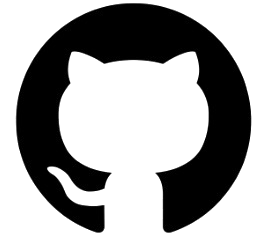
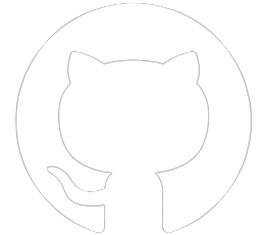
Add files via upload

diff --git a/style.css b/style.css
@@ -483,7 +483,6 @@ width: 100%;
 
     .card_experiencia span{
         color:rgb(130, 39, 190);
-
     }
 
     .projetos{
@@ -533,7 +532,6 @@ width: 100%;
  span a{
     position: absolute;
     bottom: 0;
-    
     margin-bottom: 2%;
     width: 20%;
     height: 12%;
@@ -567,7 +565,7 @@ width: 100%;
 
  .ft_skill{
     width: 16%;
-    height: 19%;
+    height: 14%;
  }
 
  .conteudo_contato{
@@ -623,6 +621,7 @@ font-size: 70%;
     border-radius:0;
     margin-top: 10%;
     border-left: none;
+    padding: 0%;
 }
 
 .ft_eu{

diff --git a/index.html b/index.html
@@ -217,8 +217,8 @@ Criação de sites e sistemas simples sob medida, focadas em usabilidade
              <img src="instagram.png">
        </a>
 
-          <a href="https://vercel.com/pedro-gabriels-projects-9d56f57f">
-             <img src="Captura_de_tela_2026-01-28_074021-removebg-preview.png">
+          <a href="https://github.com/Pedro262492">
+             <img src="git.png">
        </a>
         </div>
     </div>
